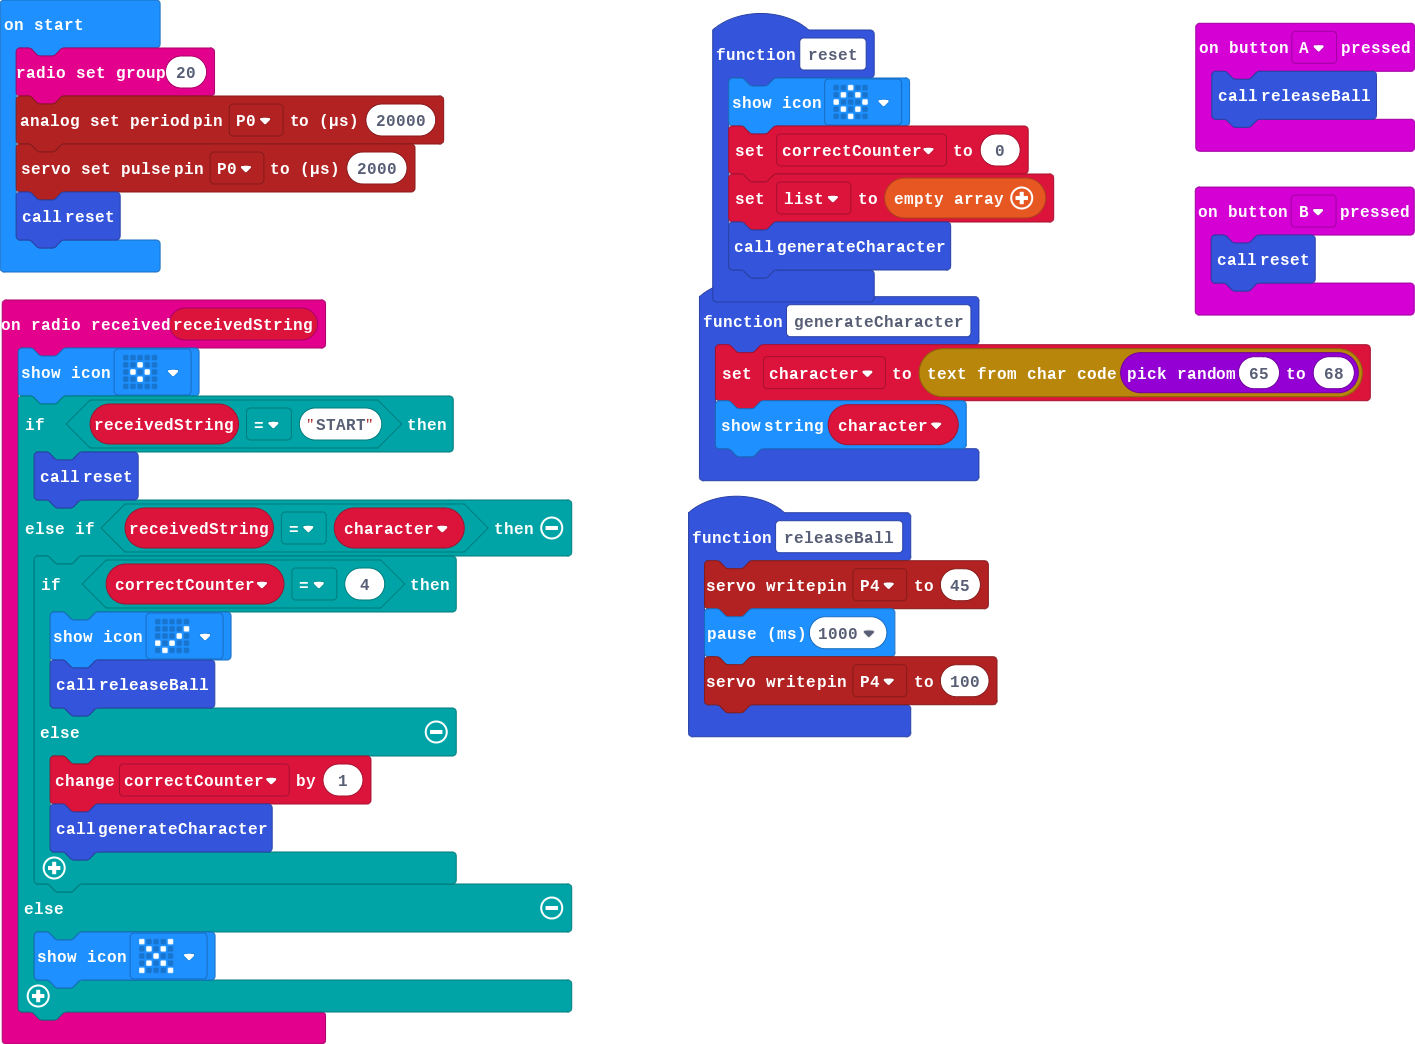
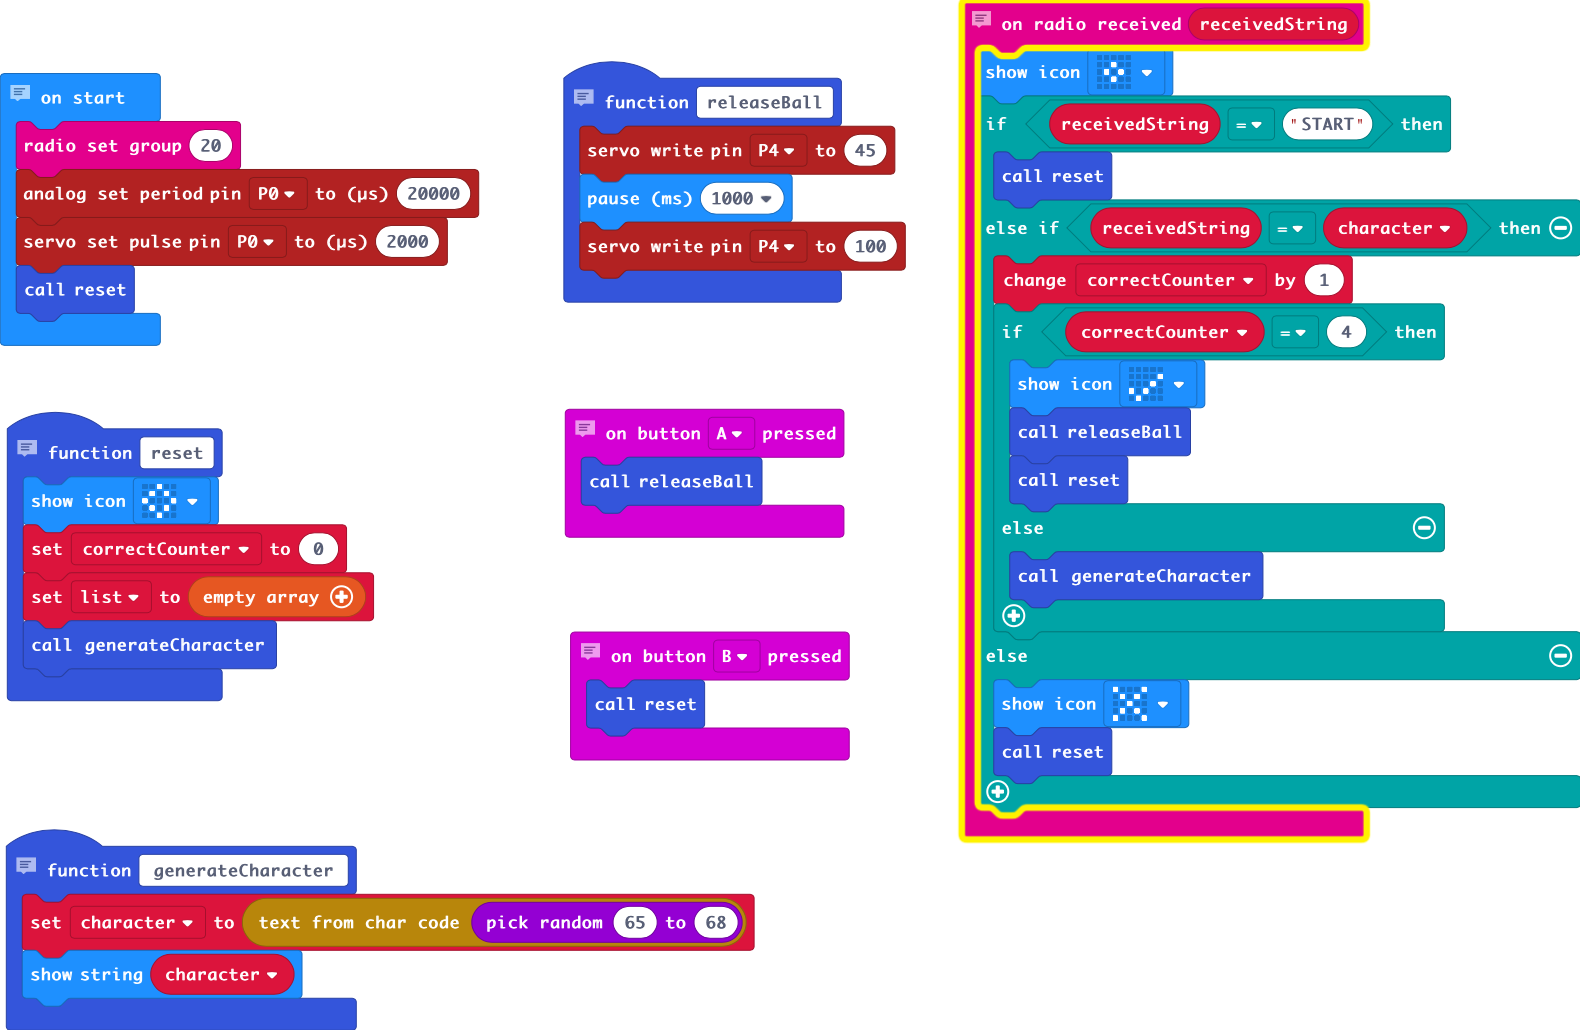
finished commenting and testing

diff --git a/main.ts b/main.ts
@@ -1,37 +1,99 @@
+// When user receives something:
+//
+//
+// -shows diamond icon to indicate that something is
+// received
+//
+//
+// -if receivedString = START, reset the program
+//
+//
+// -if receivedString = character (A - D), change
+// correctCounter by 1
+//
+//
+// -if the number of correct characters is 4, show the
+// check icon and release the ball. Then reset the
+// program
+//
+// -else, generate a new character
+//
+//
+// -if receivedString does not equal character, show
+// "x" icon and call reset
+//
 radio.onReceivedString(function (receivedString) {
     basic.showIcon(IconNames.SmallDiamond)
     if (receivedString == "START") {
         reset()
     } else if (receivedString == character) {
+        correctCounter += 1
         if (correctCounter == 4) {
             basic.showIcon(IconNames.Yes)
             releaseBall()
+            reset()
         } else {
-            correctCounter += 1
             generateCharacter()
         }
     } else {
         basic.showIcon(IconNames.No)
+        reset()
     }
 })
+// Releases the ball:
+//
+//
+// -pushes ball out
+//
+// -waits 1 sec
+//
+// -moves motor back
 function releaseBall () {
     pins.servoWritePin(AnalogPin.P4, 45)
     basic.pause(1000)
     pins.servoWritePin(AnalogPin.P4, 100)
 }
+// Generates a character:
+//
+//
+// -sets the variable character to a random letter
+// from A-D
+//
+// -displays character
 function generateCharacter () {
     character = String.fromCharCode(Math.randomRange(65, 68))
     basic.showString(character)
 }
+// When button B is pressed:
+//
+//
+// -on demand, resets the program
 input.onButtonPressed(Button.B, function () {
     reset()
 })
+// Resets the program:
+//
+//
+// -shows the diamond icon
+//
+// -sets the number of correct characters to 0
+//
+// -clears the screen
+//
+// -generates a new character
+//
 function reset () {
     basic.showIcon(IconNames.Diamond)
     correctCounter = 0
     list = []
     generateCharacter()
 }
+// When button A pressed:
+//
+//
+// -on demand, calls function release ball
+//
+// -used when ball gets stuck
 input.onButtonPressed(Button.A, function () {
     releaseBall()
 })
